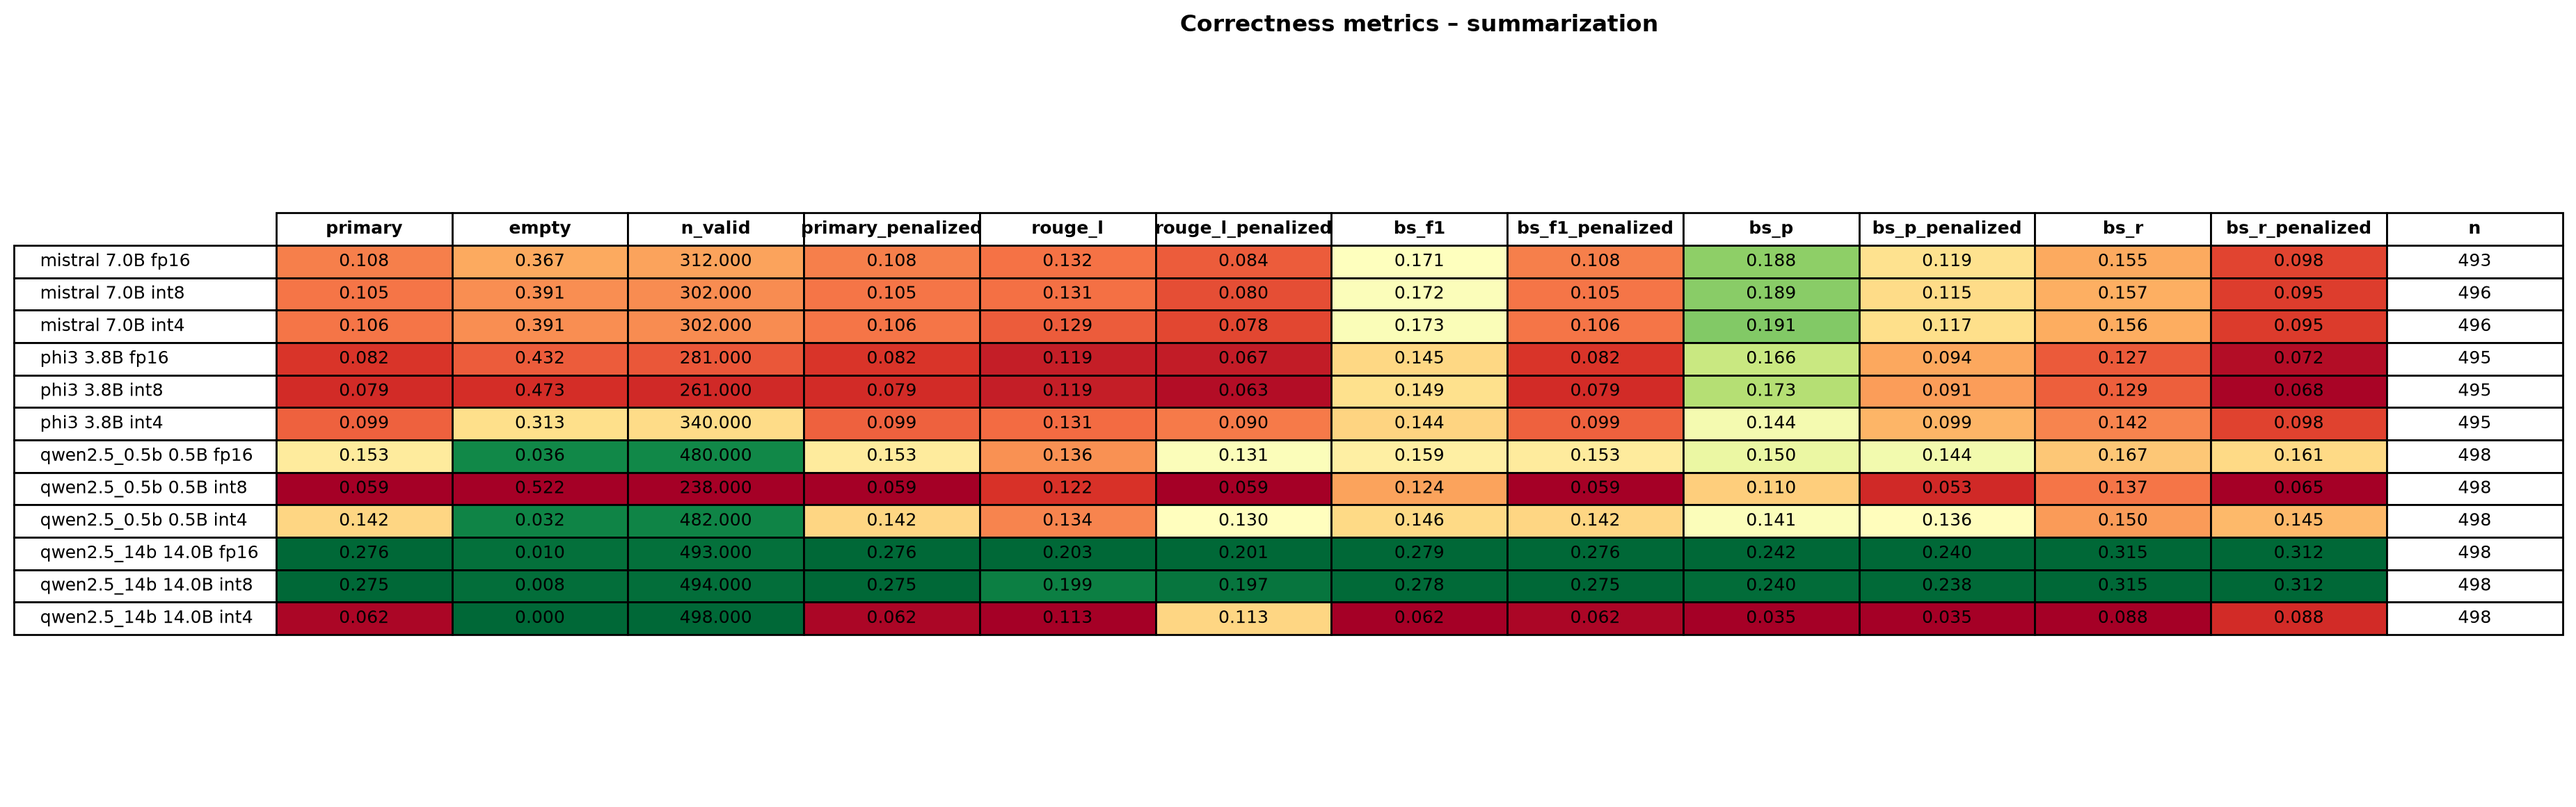
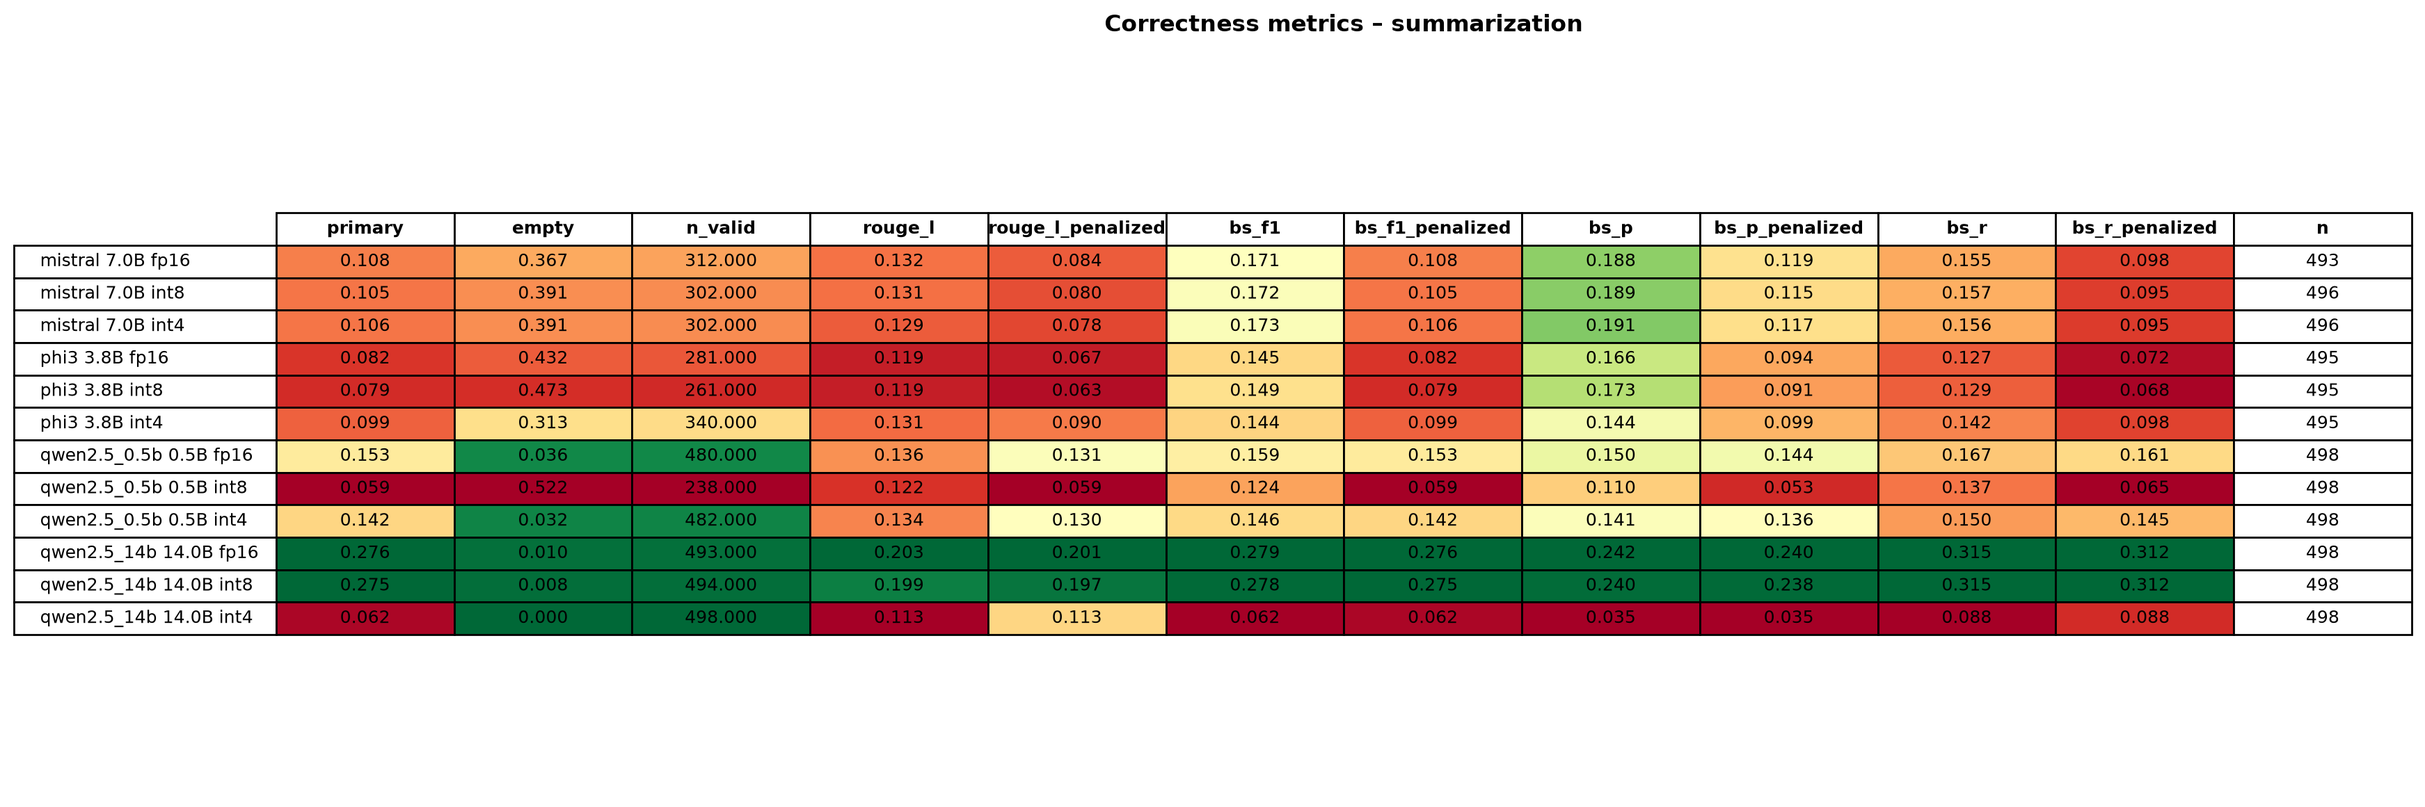
agg corrected

diff --git a/code/analysis/analyze_correctness.py b/code/analysis/analyze_correctness.py
@@ -8,6 +8,13 @@ CSV_PATH = r"D:\BachelorThesisGit\BachelorThesis\code\results\analysis\summary_a
 OUT_DIR = Path("plots")
 QUANT_ORDER = ["fp16", "int8", "int4"]
 LOWER_IS_BETTER = {"quality_empty", "quality_schema_error"}
+DROP_COLS = {
+    "code": {"empty", "n_valid", "pass_at_1_penalized", "primary_penalized"},
+    "json": {"empty", "schema_error", "schema_error_penalized",
+             "parseable_penalized", "parseable_penalize",
+             "schema_valid_penalized"},
+    "summarization": {"primary_penalized"},
+}
 
 OUT_DIR.mkdir(exist_ok=True)
 
@@ -24,7 +31,8 @@ def short(col: str) -> str:
 
 
 def draw_table(sub: pd.DataFrame, task: str) -> None:
-    cols = [c for c in quality_cols if sub[c].notna().any()]
+    drop = DROP_COLS.get(task, set())
+    cols = [c for c in quality_cols if sub[c].notna().any() and short(c) not in drop]
     sub = sub.sort_values(["family", "size_b", "quantization"])
 
     row_labels = [f"{r.family} {r.size_b}B {r.quantization}" for r in sub.itertuples()]
